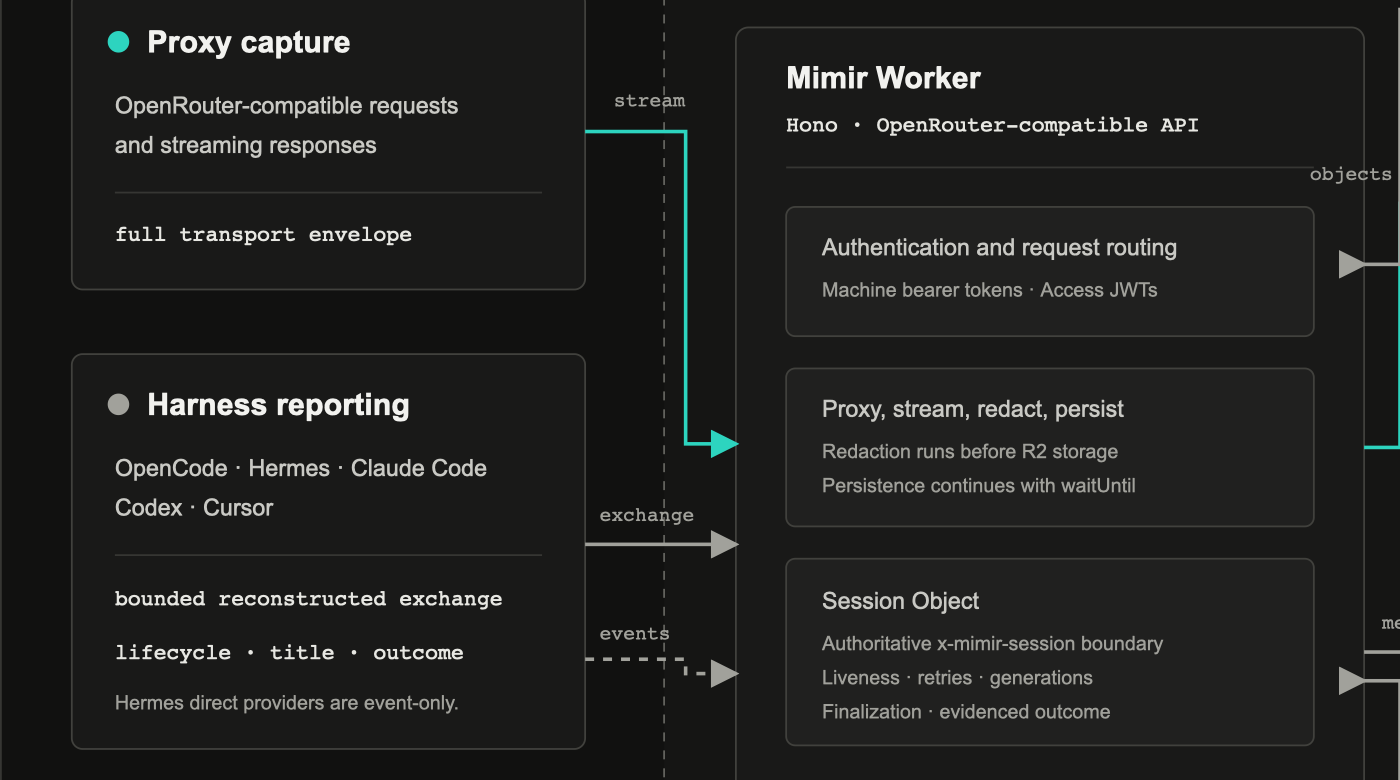
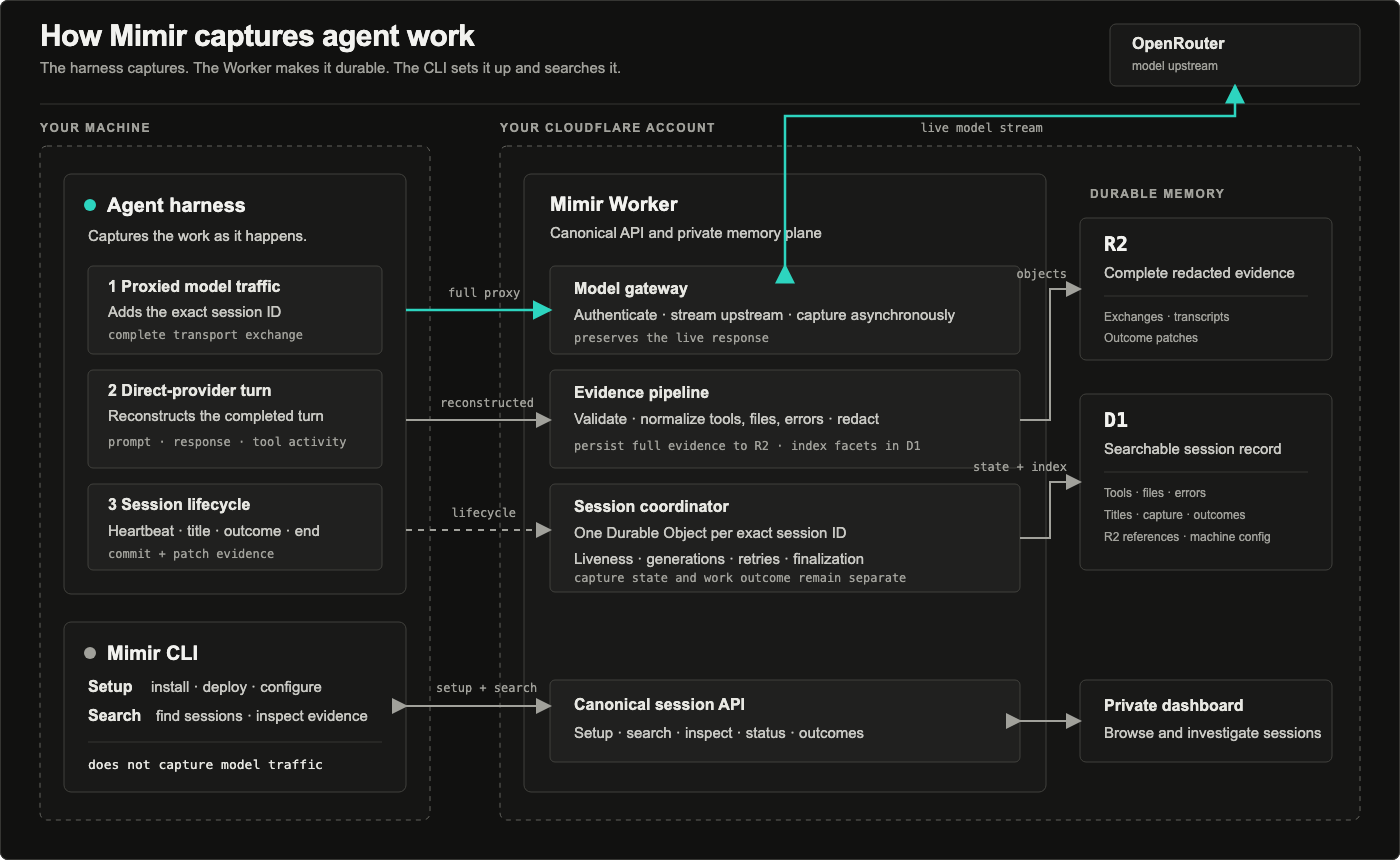
docs(readme): clarify Mimir capture architecture

diff --git a/README.md b/README.md
@@ -124,7 +124,7 @@ Mimir deliberately keeps two facts separate:
 
 ## How Mimir works
 
-![Three agent evidence paths enter the private Mimir Worker, which coordinates sessions and stores redacted exchanges in R2 and searchable metadata in D1 for the dashboard and CLI.](assets/images/mimir-system-map.png)
+![The agent harness captures full proxy exchanges, reconstructed direct-provider turns, and lifecycle events. The private Mimir Worker makes that evidence durable, while the separate CLI handles setup and search.](assets/images/mimir-system-map.png)
 
 There are three inputs to one session record:
 
